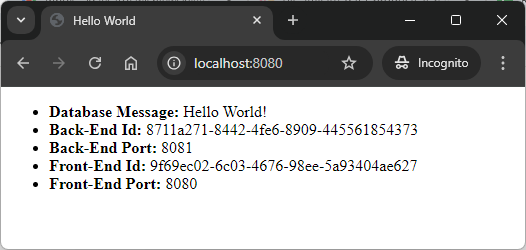
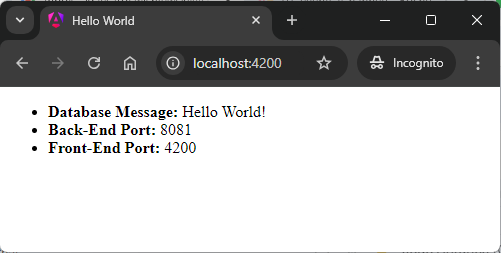
Remove fe and be ids

diff --git a/others/services/fe-angular-be-springboot-db-sql-mysql/fe-angular-be-springboot-db-sql-mysql_FE/src/app/components/hello-world/hello-world.component.ts b/others/services/fe-angular-be-springboot-db-sql-mysql/fe-angular-be-springboot-db-sql-mysql_FE/src/app/components/hello-world/hello-world.component.ts
@@ -1,7 +1,6 @@
 import { Component, OnInit } from '@angular/core';
 import { RouterOutlet } from '@angular/router';
 import { ApiService } from '../../services/api/api.service';
-import { UuidService } from '../../services/uuid/uuid.service';
 import { HelloWorldDto } from '../../dtos/hello-world.dto';
 
 
@@ -15,23 +14,21 @@ import { HelloWorldDto } from '../../dtos/hello-world.dto';
 export class HelloWorldComponent implements OnInit{
 
   message: string = "";
-  idBe: string = "";
   portBe: string = "";
-  idFe: string = "";
   portFe: string = "";
 
-  constructor(private apiService: ApiService, private uuidSevice: UuidService) {}
+  constructor(private apiService: ApiService) {}
 
   ngOnInit(): void {
-    this.idFe = this.uuidSevice.getUUID();
+
     this.portFe = window.location.port;
 
     let response = this.apiService.getMessage();
     response.subscribe((helloWorldDto: HelloWorldDto)=>{      
       this.message = helloWorldDto.text;
-      this.idBe = helloWorldDto.idBe;
       this.portBe = helloWorldDto.portBe;
     });
+
   }
   
 }

diff --git a/others/services/fe-angular-be-springboot-db-sql-mysql/fe-angular-be-springboot-db-sql-mysql_FE/src/app/services/api/api.service.ts b/others/services/fe-angular-be-springboot-db-sql-mysql/fe-angular-be-springboot-db-sql-mysql_FE/src/app/services/api/api.service.ts
@@ -17,7 +17,7 @@ export class ApiService {
   getMessage(): Observable<HelloWorldDto> {
     return this.http.get<any>(`${this.baseUrl}/message/1`)
           .pipe(
-            map(data => new HelloWorldDto(data.id, data.text, data.idBe, data.portBe)),
+            map(data => new HelloWorldDto(data.id, data.text, data.portBe)),
             catchError((error) => {
               return throwError(() => error);
             })

diff --git a/others/services/fe-angular-be-springboot-db-sql-mysql/fe-angular-be-springboot-db-sql-mysql_FE/src/app/components/hello-world/hello-world.component.html b/others/services/fe-angular-be-springboot-db-sql-mysql/fe-angular-be-springboot-db-sql-mysql_FE/src/app/components/hello-world/hello-world.component.html
@@ -4,16 +4,8 @@
         <span> {{message}} </span>
     </li>
     <li>
-        <span><b>Back-End Id: </b></span>
-        <span> {{idBe}} </span>
-    </li>
-    <li>
         <span><b>Back-End Port: </b></span>
         <span> {{portBe}} </span>
-    </li>
-    <li>
-        <span><b>Front-End Id: </b></span>
-        <span> {{idFe}} </span>
     </li>
     <li>
         <span><b>Front-End Port: </b></span>

diff --git a/others/services/fe-angular-be-springboot-db-sql-mysql/fe-angular-be-springboot-db-sql-mysql_FE/src/app/dtos/hello-world.dto.ts b/others/services/fe-angular-be-springboot-db-sql-mysql/fe-angular-be-springboot-db-sql-mysql_FE/src/app/dtos/hello-world.dto.ts
@@ -2,13 +2,11 @@ export class HelloWorldDto {
 
     id: number;
     text: string;
-    idBe: string;
     portBe: string;
 
-    constructor(id: number, text: string, idBe: string, portBe: string) {
+    constructor(id: number, text: string, portBe: string) {
         this.id = id;
         this.text = text;
-        this.idBe = idBe;
         this.portBe = portBe;
     }
     

diff --git a/others/services/fe-angular-be-springboot-db-sql-mysql/fe-angular-be-springboot-db-sql-mysql_BE/src/main/java/com/example/services/HelloWorldService.java b/others/services/fe-angular-be-springboot-db-sql-mysql/fe-angular-be-springboot-db-sql-mysql_BE/src/main/java/com/example/services/HelloWorldService.java
@@ -24,8 +24,7 @@ public class HelloWorldService {
         
         HelloWorldEntity helloWorldEntity = helloWorldRepository.findById(id).orElseThrow(() -> new RuntimeException("Message doesn't exist"));
         String portBe = environment.getProperty("local.server.port");
-		String idBe = System.getProperty("id");
-        return new HelloWorldDto(helloWorldEntity.getId(), helloWorldEntity.getText(), idBe, portBe);
+        return new HelloWorldDto(helloWorldEntity.getId(), helloWorldEntity.getText(), portBe);
 
     }
 

diff --git a/others/services/fe-angular-be-springboot-db-sql-mysql/fe-angular-be-springboot-db-sql-mysql_BE/src/main/java/com/example/dtos/HelloWorldDto.java b/others/services/fe-angular-be-springboot-db-sql-mysql/fe-angular-be-springboot-db-sql-mysql_BE/src/main/java/com/example/dtos/HelloWorldDto.java
@@ -1,3 +1,3 @@
 package com.example.dtos;
 
-public record HelloWorldDto(Long id, String text, String idBe, String portBe) {}
+public record HelloWorldDto(Long id, String text, String portBe) {}
